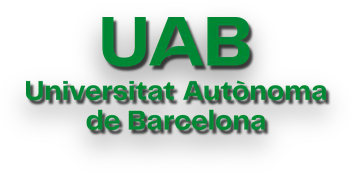
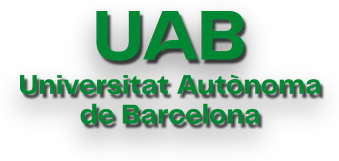
Insignias: margen aún más chico, más grandes, y ?v=2 para forzar recarga
Recorte más ajustado (6px de margen en vez de 12) y la caja sube de
72-110px a 80-125px. Se agrega ?v=2 a las 30 referencias de estos 9
logos -- el servidor ya venía sirviendo el archivo correcto y
byte-a-byte igual al local (headers y Content-Length verificados),
así que si en el navegador seguían viéndose iguales era caché del
lado del cliente; el query string fuerza una descarga nueva sin
depender de eso.

Changed region(s): [[0.059, 0.4658, 0.9735, 0.8075], [0.2655, 0.0621, 0.7375, 0.4348], [0.472, 0.4658, 0.5015, 0.4969]]

diff --git a/sitio-andree/index.html b/sitio-andree/index.html
@@ -265,54 +265,54 @@
         <div class="riel-escudos" data-reveal style="--i:1">
           <div class="riel-pista" style="--total:6">
             <figure class="riel-escudo-item" style="--ri:0">
-              <img src="img/escudos/continental.png" alt="Universidad Continental" loading="lazy" decoding="async"/>
+              <img src="img/escudos/continental.png?v=2" alt="Universidad Continental" loading="lazy" decoding="async"/>
               <figcaption class="riel-escudo-etiqueta">Licenciado en Psicología</figcaption>
             </figure>
             <figure class="riel-escudo-item" style="--ri:1">
-              <img src="img/escudos/villarreal.png" alt="U. N. Federico Villarreal" loading="lazy" decoding="async"/>
+              <img src="img/escudos/villarreal.png?v=2" alt="U. N. Federico Villarreal" loading="lazy" decoding="async"/>
               <figcaption class="riel-escudo-etiqueta">Segunda especialidad en Neuropsicología</figcaption>
             </figure>
             <figure class="riel-escudo-item" style="--ri:2">
-              <img src="img/escudos/valencia.png" alt="Universitat de València" loading="lazy" decoding="async"/>
+              <img src="img/escudos/valencia.png?v=2" alt="Universitat de València" loading="lazy" decoding="async"/>
               <figcaption class="riel-escudo-etiqueta">Máster en Psicofarmacología</figcaption>
             </figure>
             <figure class="riel-escudo-item" style="--ri:3">
-              <img src="img/escudos/uab.png" alt="U. Autònoma de Barcelona" loading="lazy" decoding="async"/>
+              <img src="img/escudos/uab.png?v=2" alt="U. Autònoma de Barcelona" loading="lazy" decoding="async"/>
               <figcaption class="riel-escudo-etiqueta">Máster en Farmacología</figcaption>
             </figure>
             <figure class="riel-escudo-item" style="--ri:4">
-              <img src="img/escudos/unmsm.png" alt="UNMSM" loading="lazy" decoding="async"/>
+              <img src="img/escudos/unmsm.png?v=2" alt="UNMSM" loading="lazy" decoding="async"/>
               <figcaption class="riel-escudo-etiqueta">Doctor en Neurociencias</figcaption>
             </figure>
             <figure class="riel-escudo-item" style="--ri:5">
-              <img src="img/escudos/innn.png" alt="INNN · México" loading="lazy" decoding="async"/>
+              <img src="img/escudos/innn.png?v=2" alt="INNN · México" loading="lazy" decoding="async"/>
               <figcaption class="riel-escudo-etiqueta">Posdoctorado</figcaption>
             </figure>
             <!-- repetido, oculto de lectores de pantalla: la tira duplica
                  el contenido para que el desplazamiento pueda dar toda la
                  vuelta y volver al principio sin que se note el corte. -->
             <figure class="riel-escudo-item riel-escudo-item--duplicado" aria-hidden="true">
-              <img src="img/escudos/continental.png" alt="" loading="lazy" decoding="async"/>
+              <img src="img/escudos/continental.png?v=2" alt="" loading="lazy" decoding="async"/>
               <figcaption class="riel-escudo-etiqueta">Licenciado en Psicología</figcaption>
             </figure>
             <figure class="riel-escudo-item riel-escudo-item--duplicado" aria-hidden="true">
-              <img src="img/escudos/villarreal.png" alt="" loading="lazy" decoding="async"/>
+              <img src="img/escudos/villarreal.png?v=2" alt="" loading="lazy" decoding="async"/>
               <figcaption class="riel-escudo-etiqueta">Segunda especialidad en Neuropsicología</figcaption>
             </figure>
             <figure class="riel-escudo-item riel-escudo-item--duplicado" aria-hidden="true">
-              <img src="img/escudos/valencia.png" alt="" loading="lazy" decoding="async"/>
+              <img src="img/escudos/valencia.png?v=2" alt="" loading="lazy" decoding="async"/>
               <figcaption class="riel-escudo-etiqueta">Máster en Psicofarmacología</figcaption>
             </figure>
             <figure class="riel-escudo-item riel-escudo-item--duplicado" aria-hidden="true">
-              <img src="img/escudos/uab.png" alt="" loading="lazy" decoding="async"/>
+              <img src="img/escudos/uab.png?v=2" alt="" loading="lazy" decoding="async"/>
               <figcaption class="riel-escudo-etiqueta">Máster en Farmacología</figcaption>
             </figure>
             <figure class="riel-escudo-item riel-escudo-item--duplicado" aria-hidden="true">
-              <img src="img/escudos/unmsm.png" alt="" loading="lazy" decoding="async"/>
+              <img src="img/escudos/unmsm.png?v=2" alt="" loading="lazy" decoding="async"/>
               <figcaption class="riel-escudo-etiqueta">Doctor en Neurociencias</figcaption>
             </figure>
             <figure class="riel-escudo-item riel-escudo-item--duplicado" aria-hidden="true">
-              <img src="img/escudos/innn.png" alt="" loading="lazy" decoding="async"/>
+              <img src="img/escudos/innn.png?v=2" alt="" loading="lazy" decoding="async"/>
               <figcaption class="riel-escudo-etiqueta">Posdoctorado</figcaption>
             </figure>
           </div>
@@ -322,28 +322,28 @@
         <div class="riel-escudos" data-reveal style="--i:3">
           <div class="riel-pista" style="--total:4">
             <figure class="riel-escudo-item" style="--ri:0">
-              <img src="img/escudos/unam.png" alt="UNAM · CDMX" loading="lazy" decoding="async"/>
+              <img src="img/escudos/unam.png?v=2" alt="UNAM · CDMX" loading="lazy" decoding="async"/>
             </figure>
             <figure class="riel-escudo-item" style="--ri:1">
-              <img src="img/escudos/imim.png" alt="IMIM · Barcelona" loading="lazy" decoding="async"/>
+              <img src="img/escudos/imim.png?v=2" alt="IMIM · Barcelona" loading="lazy" decoding="async"/>
             </figure>
             <figure class="riel-escudo-item" style="--ri:2">
-              <img src="img/escudos/innn.png" alt="INNN · CDMX" loading="lazy" decoding="async"/>
+              <img src="img/escudos/innn.png?v=2" alt="INNN · CDMX" loading="lazy" decoding="async"/>
             </figure>
             <figure class="riel-escudo-item" style="--ri:3">
-              <img src="img/escudos/antioquia.png" alt="U. de Antioquia · Medellín" loading="lazy" decoding="async"/>
+              <img src="img/escudos/antioquia.png?v=2" alt="U. de Antioquia · Medellín" loading="lazy" decoding="async"/>
             </figure>
             <figure class="riel-escudo-item riel-escudo-item--duplicado" aria-hidden="true">
-              <img src="img/escudos/unam.png" alt="" loading="lazy" decoding="async"/>
+              <img src="img/escudos/unam.png?v=2" alt="" loading="lazy" decoding="async"/>
             </figure>
             <figure class="riel-escudo-item riel-escudo-item--duplicado" aria-hidden="true">
-              <img src="img/escudos/imim.png" alt="" loading="lazy" decoding="async"/>
+              <img src="img/escudos/imim.png?v=2" alt="" loading="lazy" decoding="async"/>
             </figure>
             <figure class="riel-escudo-item riel-escudo-item--duplicado" aria-hidden="true">
-              <img src="img/escudos/innn.png" alt="" loading="lazy" decoding="async"/>
+              <img src="img/escudos/innn.png?v=2" alt="" loading="lazy" decoding="async"/>
             </figure>
             <figure class="riel-escudo-item riel-escudo-item--duplicado" aria-hidden="true">
-              <img src="img/escudos/antioquia.png" alt="" loading="lazy" decoding="async"/>
+              <img src="img/escudos/antioquia.png?v=2" alt="" loading="lazy" decoding="async"/>
             </figure>
           </div>
         </div>
@@ -353,43 +353,43 @@
         <p class="escudos-titulo escudos-titulo--mobile" data-reveal>Formación</p>
         <div class="escudos escudos--seis escudos--mobile">
             <figure class="escudo" data-reveal style="--i:1">
-              <img src="img/escudos/continental.png" alt="Universidad Continental" loading="lazy" decoding="async"/>
+              <img src="img/escudos/continental.png?v=2" alt="Universidad Continental" loading="lazy" decoding="async"/>
               <figcaption>Licenciado en Psicología</figcaption>
             </figure>
             <figure class="escudo" data-reveal style="--i:2">
-              <img src="img/escudos/villarreal.png" alt="U. N. Federico Villarreal" loading="lazy" decoding="async"/>
+              <img src="img/escudos/villarreal.png?v=2" alt="U. N. Federico Villarreal" loading="lazy" decoding="async"/>
               <figcaption>Segunda especialidad en Neuropsicología</figcaption>
             </figure>
             <figure class="escudo" data-reveal style="--i:3">
-              <img src="img/escudos/valencia.png" alt="Universitat de València" loading="lazy" decoding="async"/>
+              <img src="img/escudos/valencia.png?v=2" alt="Universitat de València" loading="lazy" decoding="async"/>
               <figcaption>Máster en Psicofarmacología</figcaption>
             </figure>
             <figure class="escudo" data-reveal style="--i:4">
-              <img src="img/escudos/uab.png" alt="U. Autònoma de Barcelona" loading="lazy" decoding="async"/>
+              <img src="img/escudos/uab.png?v=2" alt="U. Autònoma de Barcelona" loading="lazy" decoding="async"/>
               <figcaption>Máster en Farmacología</figcaption>
             </figure>
             <figure class="escudo" data-reveal style="--i:5">
-              <img src="img/escudos/unmsm.png" alt="UNMSM" loading="lazy" decoding="async"/>
+              <img src="img/escudos/unmsm.png?v=2" alt="UNMSM" loading="lazy" decoding="async"/>
               <figcaption>Doctor en Neurociencias</figcaption>
             </figure>
             <figure class="escudo" data-reveal style="--i:6">
-              <img src="img/escudos/innn.png" alt="INNN · México" loading="lazy" decoding="async"/>
+              <img src="img/escudos/innn.png?v=2" alt="INNN · México" loading="lazy" decoding="async"/>
               <figcaption>Posdoctorado</figcaption>
             </figure>
         </div>
         <p class="escudos-titulo escudos-titulo--mobile" data-reveal style="--i:6">Estancias e investigación</p>
         <div class="escudos escudos--cuatro escudos--mobile">
             <figure class="escudo" data-reveal style="--i:7">
-              <img src="img/escudos/unam.png" alt="UNAM · CDMX" loading="lazy" decoding="async"/>
+              <img src="img/escudos/unam.png?v=2" alt="UNAM · CDMX" loading="lazy" decoding="async"/>
             </figure>
             <figure class="escudo" data-reveal style="--i:8">
-              <img src="img/escudos/imim.png" alt="IMIM · Barcelona" loading="lazy" decoding="async"/>
+              <img src="img/escudos/imim.png?v=2" alt="IMIM · Barcelona" loading="lazy" decoding="async"/>
             </figure>
             <figure class="escudo" data-reveal style="--i:9">
-              <img src="img/escudos/innn.png" alt="INNN · CDMX" loading="lazy" decoding="async"/>
+              <img src="img/escudos/innn.png?v=2" alt="INNN · CDMX" loading="lazy" decoding="async"/>
             </figure>
             <figure class="escudo" data-reveal style="--i:10">
-              <img src="img/escudos/antioquia.png" alt="U. de Antioquia · Medellín" loading="lazy" decoding="async"/>
+              <img src="img/escudos/antioquia.png?v=2" alt="U. de Antioquia · Medellín" loading="lazy" decoding="async"/>
             </figure>
         </div>
       </div>

diff --git a/sitio-andree/css/theme.css b/sitio-andree/css/theme.css
@@ -6219,6 +6219,6 @@ body:has(.investigacion-sola) .progressive-blur {
    borde. Se recortó cada PNG a su contenido real (con margen chico
    para no cortar la sombra) y encima se sube el alto de la caja. */
 @media (min-width: 901px) {
-  #sobre .riel-escudo-item img { height: clamp(72px, 7.5vw, 110px); }
+  #sobre .riel-escudo-item img { height: clamp(80px, 8.5vw, 125px); }
 }
 
